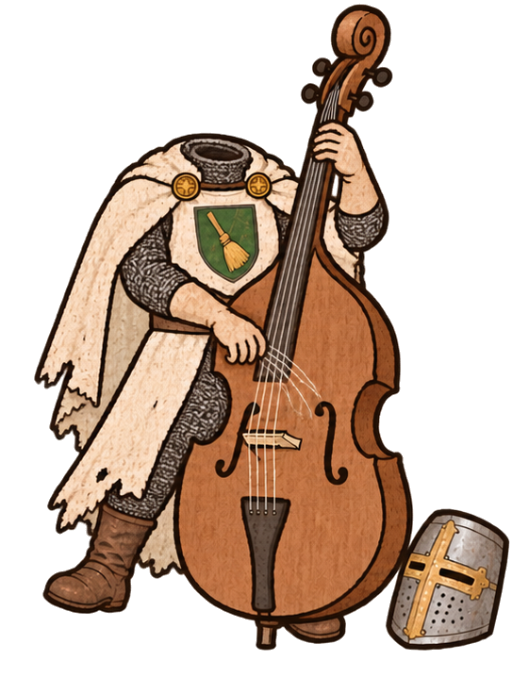
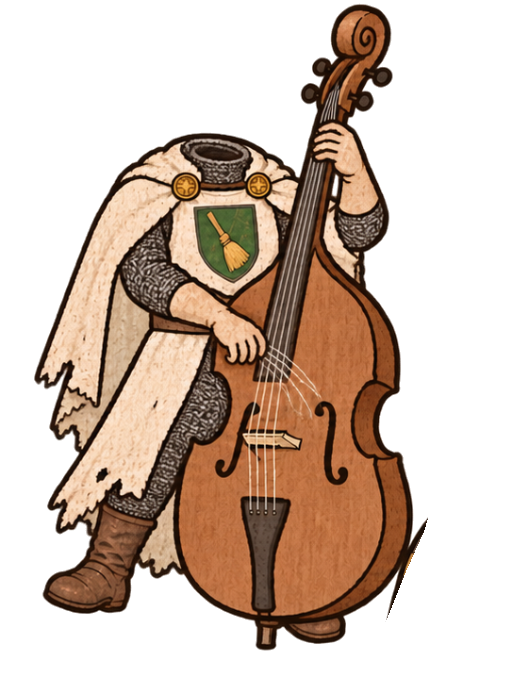
Add files via upload

Changed region(s): [[0.75, 0.739, 1.0, 0.9545]]

diff --git a/index.html b/index.html
@@ -34,14 +34,14 @@ html,body{margin:0;width:100%;height:100%;overflow:hidden;background:#d6b783}[hi
 #intro-goat{position:absolute;left:50%;transform:translate(-50%,-96.73913%);z-index:2;pointer-events:none}
 #intro-goat img{display:block;width:100%;height:100%}
 #intro-bassist{position:absolute;left:30%;transform:translate(-50%,-96%);pointer-events:none;z-index:2}
-#intro-bassist img{display:block;width:100%;height:100%}
+#intro-bassist img{position:absolute;inset:0;display:block;width:100%;height:100%}
 #intro-musician img{position:absolute;inset:0;display:block;width:100%;height:100%;object-fit:fill;pointer-events:none}
 #intro-music-notes{position:absolute;inset:0;width:100%;height:100%;z-index:2;pointer-events:none}
 </style>
 </head>
 <body><section id="intro" aria-label="Renchtal Intro">
 <div id="intro-sun-window" aria-hidden="true"><div id="intro-sun"></div></div><img id="intro-river" src="assets/intro/river.webp" alt="" aria-hidden="true"><img id="intro-title" src="assets/intro/title.webp" alt="Die Herren der Rench"><img id="intro-sun-reaction" alt="" hidden><img id="intro-stone" src="assets/intro/stone.webp" alt="" hidden><canvas id="intro-dust" hidden aria-hidden="true"></canvas><img id="intro-drop" src="assets/intro/drop-1.webp" alt="" hidden>
-<div id="intro-musician" hidden aria-hidden="true"><img id="intro-musician-a" alt=""><img id="intro-musician-b" alt=""></div><div id="intro-bassist" hidden aria-hidden="true"><img id="intro-bassist-sprite" alt=""></div><div id="intro-goat" hidden aria-hidden="true"><img id="intro-goat-sprite" alt=""></div><canvas id="intro-music-notes" hidden aria-hidden="true"></canvas>
+<div id="intro-musician" hidden aria-hidden="true"><img id="intro-musician-a" alt=""><img id="intro-musician-b" alt=""></div><div id="intro-bassist" hidden aria-hidden="true"><img id="intro-bassist-sprite" alt=""><img id="intro-bassist-helmet" src="assets/intro/bassist-helmet.webp" alt=""></div><div id="intro-goat" hidden aria-hidden="true"><img id="intro-goat-sprite" alt=""></div><canvas id="intro-music-notes" hidden aria-hidden="true"></canvas>
 <div id="intro-tapestry" aria-hidden="true"></div>
 <div id="intro-start-control"><svg id="intro-ring" viewBox="0 0 112 112" aria-hidden="true"><circle id="intro-progress" cx="56" cy="56" r="50"/></svg><button id="intro-play" type="button" aria-disabled="true" aria-label="Intro starten"></button></div><button id="intro-enter" type="button" hidden>LEER</button></section>
   <main id="menu" aria-label="Spielmodus wählen" inert aria-hidden="true">
@@ -139,6 +139,7 @@ html,body{margin:0;width:100%;height:100%;overflow:hidden;background:#d6b783}[hi
  const musicianArt={};for(const [kind,indices] of [['walk',[6,3,4]],['bob',[1,2,3,4]]])for(const i of indices){const key=`${kind}-${i}`,im=new Image();im.src=`assets/intro/musician-${key}.webp`;musicianArt[key]=im;waitImage(im);}
  const bassist=$('intro-bassist'),bassistSprite=$('intro-bassist-sprite'),bassArt=[];
  for(let i=1;i<=4;i++){const im=new Image();im.src=`assets/intro/bassist-${i}.webp`;bassArt.push(im);waitImage(im);}
+ waitImage($('intro-bassist-helmet'));
  const goat=$('intro-goat'),goatSprite=$('intro-goat-sprite'),goatArt=[];
  for(let i=1;i<=8;i++){const im=new Image();im.src=`assets/intro/goat-${i}.webp`;goatArt.push(im);waitImage(im);}
  let goatStarted=false,goatLastBeat=-1;
@@ -147,10 +148,9 @@ html,body{margin:0;width:100%;height:100%;overflow:hidden;background:#d6b783}[hi
  }
  function renderGoat(w,h,size,dt){
    if(musicianElapsed<4)return;
-   const frame=$('intro-tapestry'),innerFrameBottom=frame.getBoundingClientRect().bottom-parseFloat(getComputedStyle(frame).borderBottomWidth);
-   const height=size*.83,width=height*500/460,x=w*.5,foot=(river.getBoundingClientRect().bottom+innerFrameBottom)/2;
+   const height=size*.83,width=height*500/460,x=w*.5,foot=Math.min(h-height*.035,river.getBoundingClientRect().bottom+height*.62);
    goat.style.left=`${x}px`;goat.style.top=`${foot}px`;goat.style.height=`${height}px`;goat.style.width=`${width}px`;
-   const beat=Math.floor((musicianElapsed-4)/.12497114);goatSprite.src=goatArt[beat%8].src;
+   const beat=Math.floor((musicianElapsed-4)/.24994228);goatSprite.src=goatArt[beat%8].src;
    if(!goatStarted){goatStarted=true;goat.hidden=false;for(let i=0;i<28;i++)bassParticles.push({x:x+(Math.random()-.5)*width*.5,y:foot-height*.45,vx:(Math.random()-.5)*130,vy:-30-Math.random()*65,age:0,life:.65+Math.random()*.35,r:height*.1*(1+Math.random()),white:true});}
    if(beat!==goatLastBeat){footDust(x,foot,size*.40);goatLastBeat=beat;}
  }
